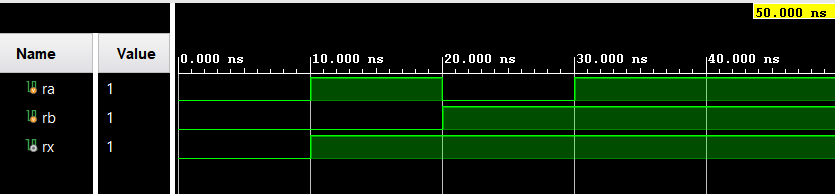
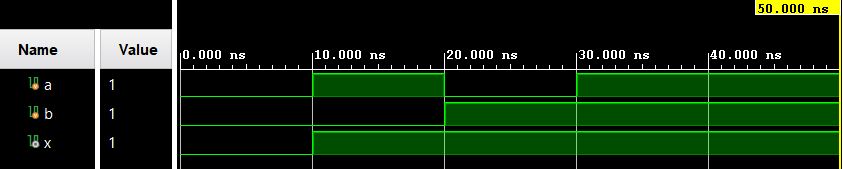
Refactor testbenches; Add NOR gate module; Update README and waveforms
- Added `nor_gate.v` and `nor_gate_tb.v` with simulation waveform
- Renamed signals in all testbenches to (a, b, x) for consistency
- Updated simulation waveforms for AND, OR, NOT, NAND
- Cleaned up spacing and formatting in gate modules
- Revised README to reflect new modules and structure

Changed region(s): [[0.0, 0.0, 1.0, 1.0]]

diff --git a/README.md b/README.md
@@ -16,6 +16,8 @@ Verilog_Basic/
 │   ├── and_gate_tb.v
 │   ├── nand_gate.v
 │   ├── nand_gate_tb.v
+│   ├── nor_gate.v
+│   ├── nor_gate_tb.v
 │   ├── not_gate.v
 │   ├── not_gate_tb.v
 │   ├── or_gate.v
@@ -23,6 +25,7 @@ Verilog_Basic/
 │   └── sim/
 │       ├── waveform_and.png
 │       ├── waveform_nand.png
+│       ├── waveform_nor.png
 │       ├── waveform_not.png
 │       └── waveform_or.png
 ├── README.md
@@ -34,18 +37,25 @@ Verilog_Basic/
 
 This repository contains the following modules in the 'gates/' folder:
 
-- `and_gate.v` : 1-bit AND gate
-- `and_gate_tb.v` : Testbench for AND gate
-- `gates/sim/waveform_and.png`: Simulation waveform
-- `or_gate.v` : 1-bit OR gate
-- `or_gate_tb.v` : Testbench for OR gate
-- `gates/sim/waveform_or.png` : Simulation waveform
-- `not_gate.v` : 1-bit NOT gate
-- `not_gate_tb.v` : Testbench for NOT gate
-- `gates/sim/waveform_not.png` : Simulation waveform
-- `nand_gate.v` : 1-bit NAND gate
-- `nand_gate_tb.v` : Testbench for NAND gate
-- `gates/sim/waveform_nand.png`: Simulation waveform
+- `and_gate.v` : 1-bit AND gate  
+  `and_gate_tb.v` : Testbench for AND gate  
+  `sim/waveform_and.png` : Simulation waveform
+
+- `or_gate.v` : 1-bit OR gate  
+  `or_gate_tb.v` : Testbench for OR gate  
+  `sim/waveform_or.png` : Simulation waveform
+
+- `not_gate.v` : 1-bit NOT gate  
+  `not_gate_tb.v` : Testbench for NOT gate  
+  `sim/waveform_not.png` : Simulation waveform
+
+- `nand_gate.v` : 1-bit NAND gate  
+  `nand_gate_tb.v` : Testbench for NAND gate  
+  `sim/waveform_nand.png` : Simulation waveform
+
+- `nor_gate.v` : 1-bit NOR gate  
+  `nor_gate_tb.v` : Testbench for NOR gate  
+  `sim/waveform_nor.png` : Simulation waveform
 
 ## License
 This project is licensed under the **MIT License**. See the [LICENSE](LICENSE) file for details.
